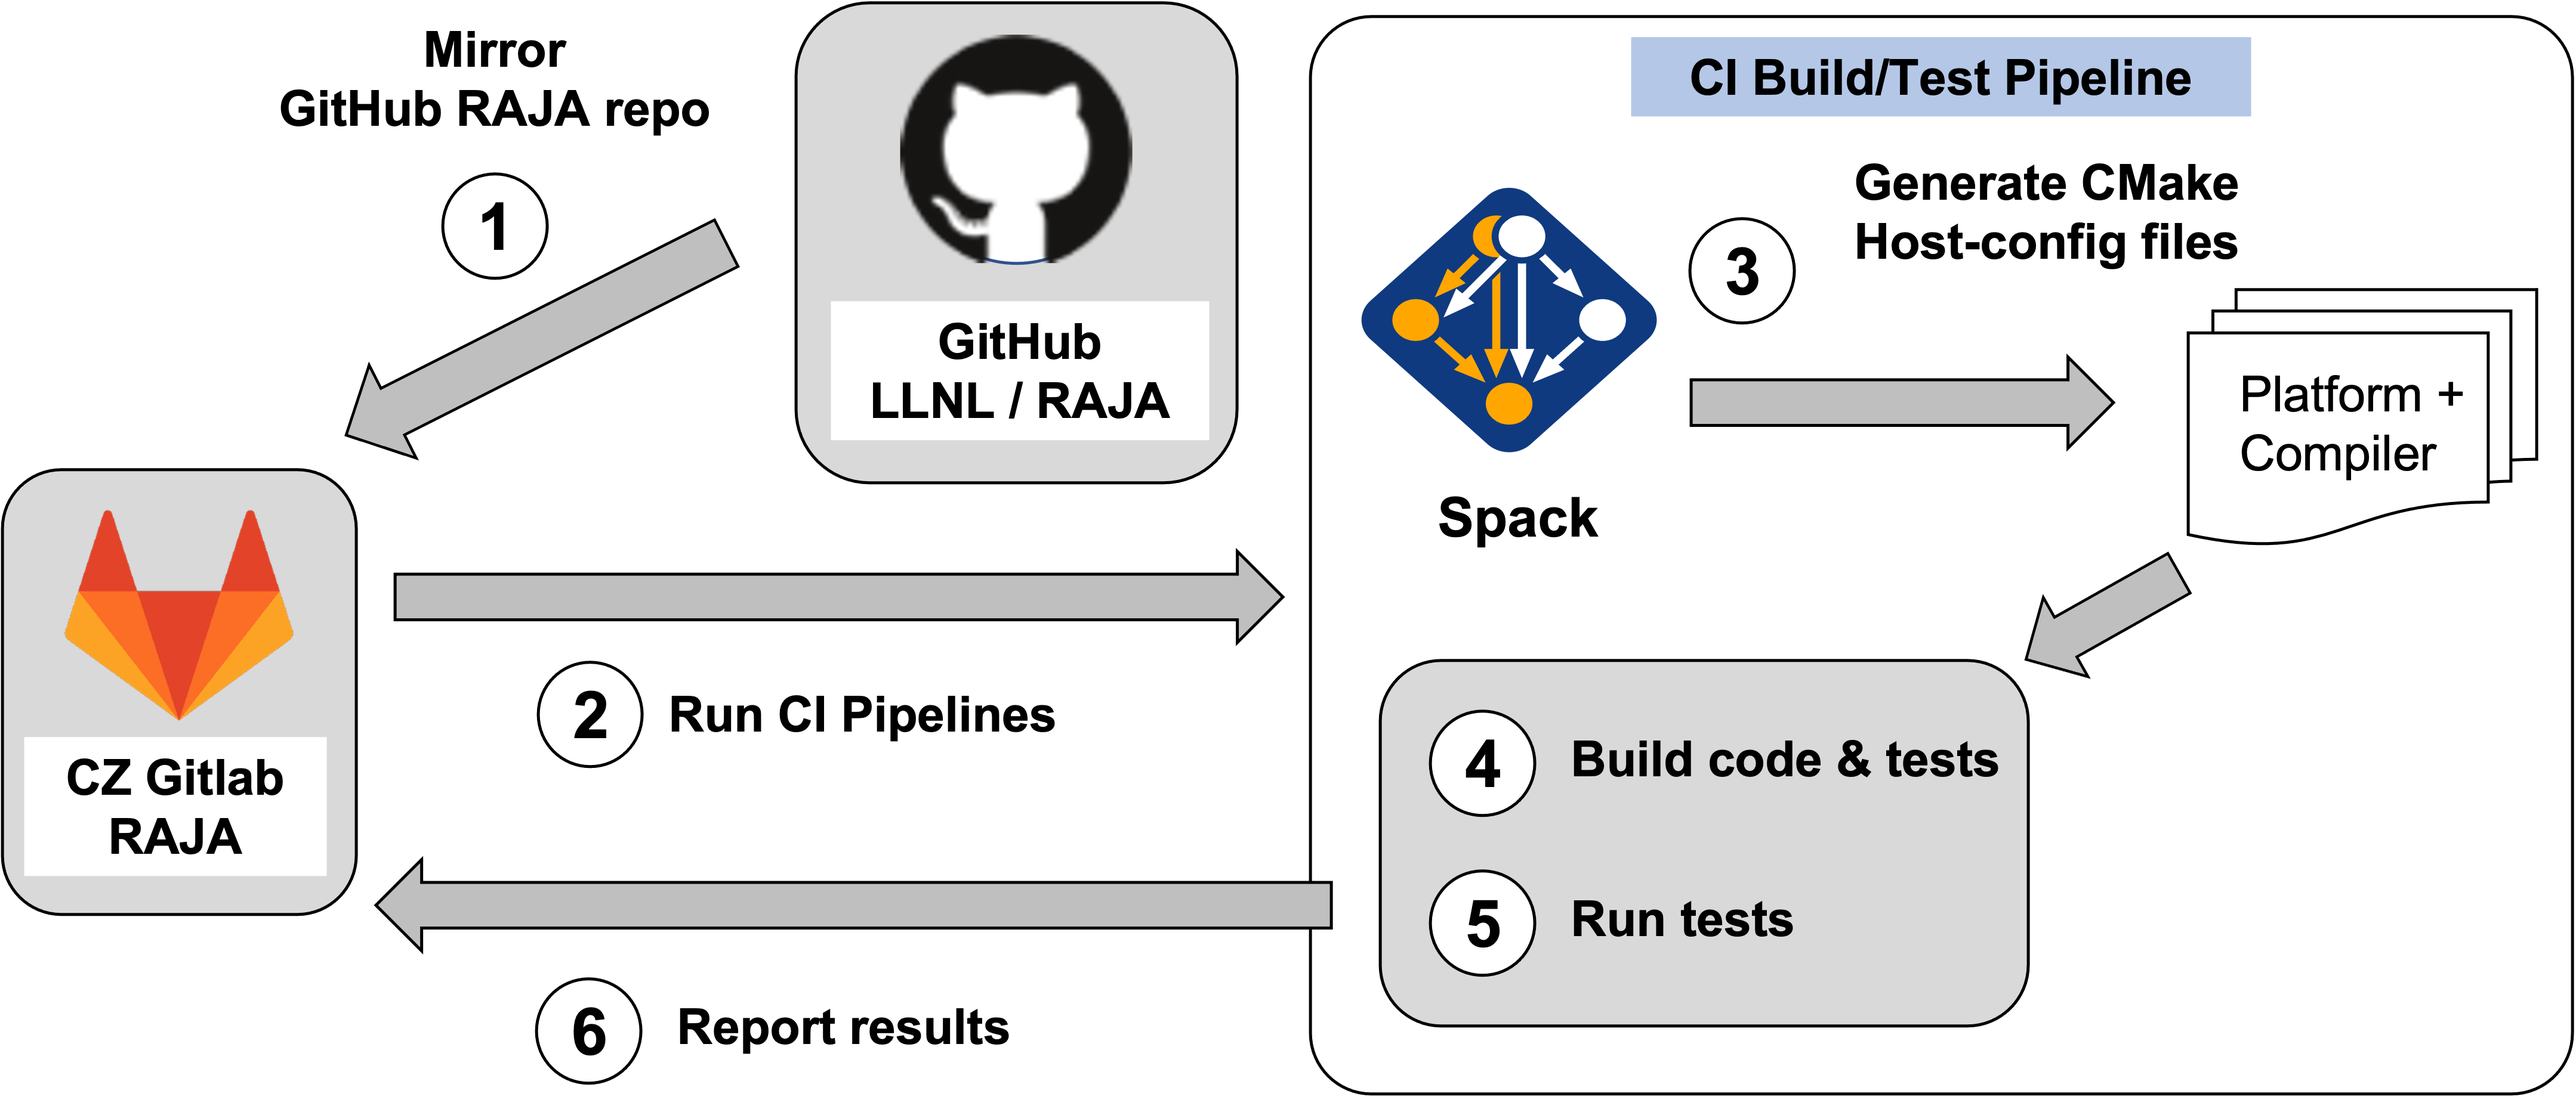
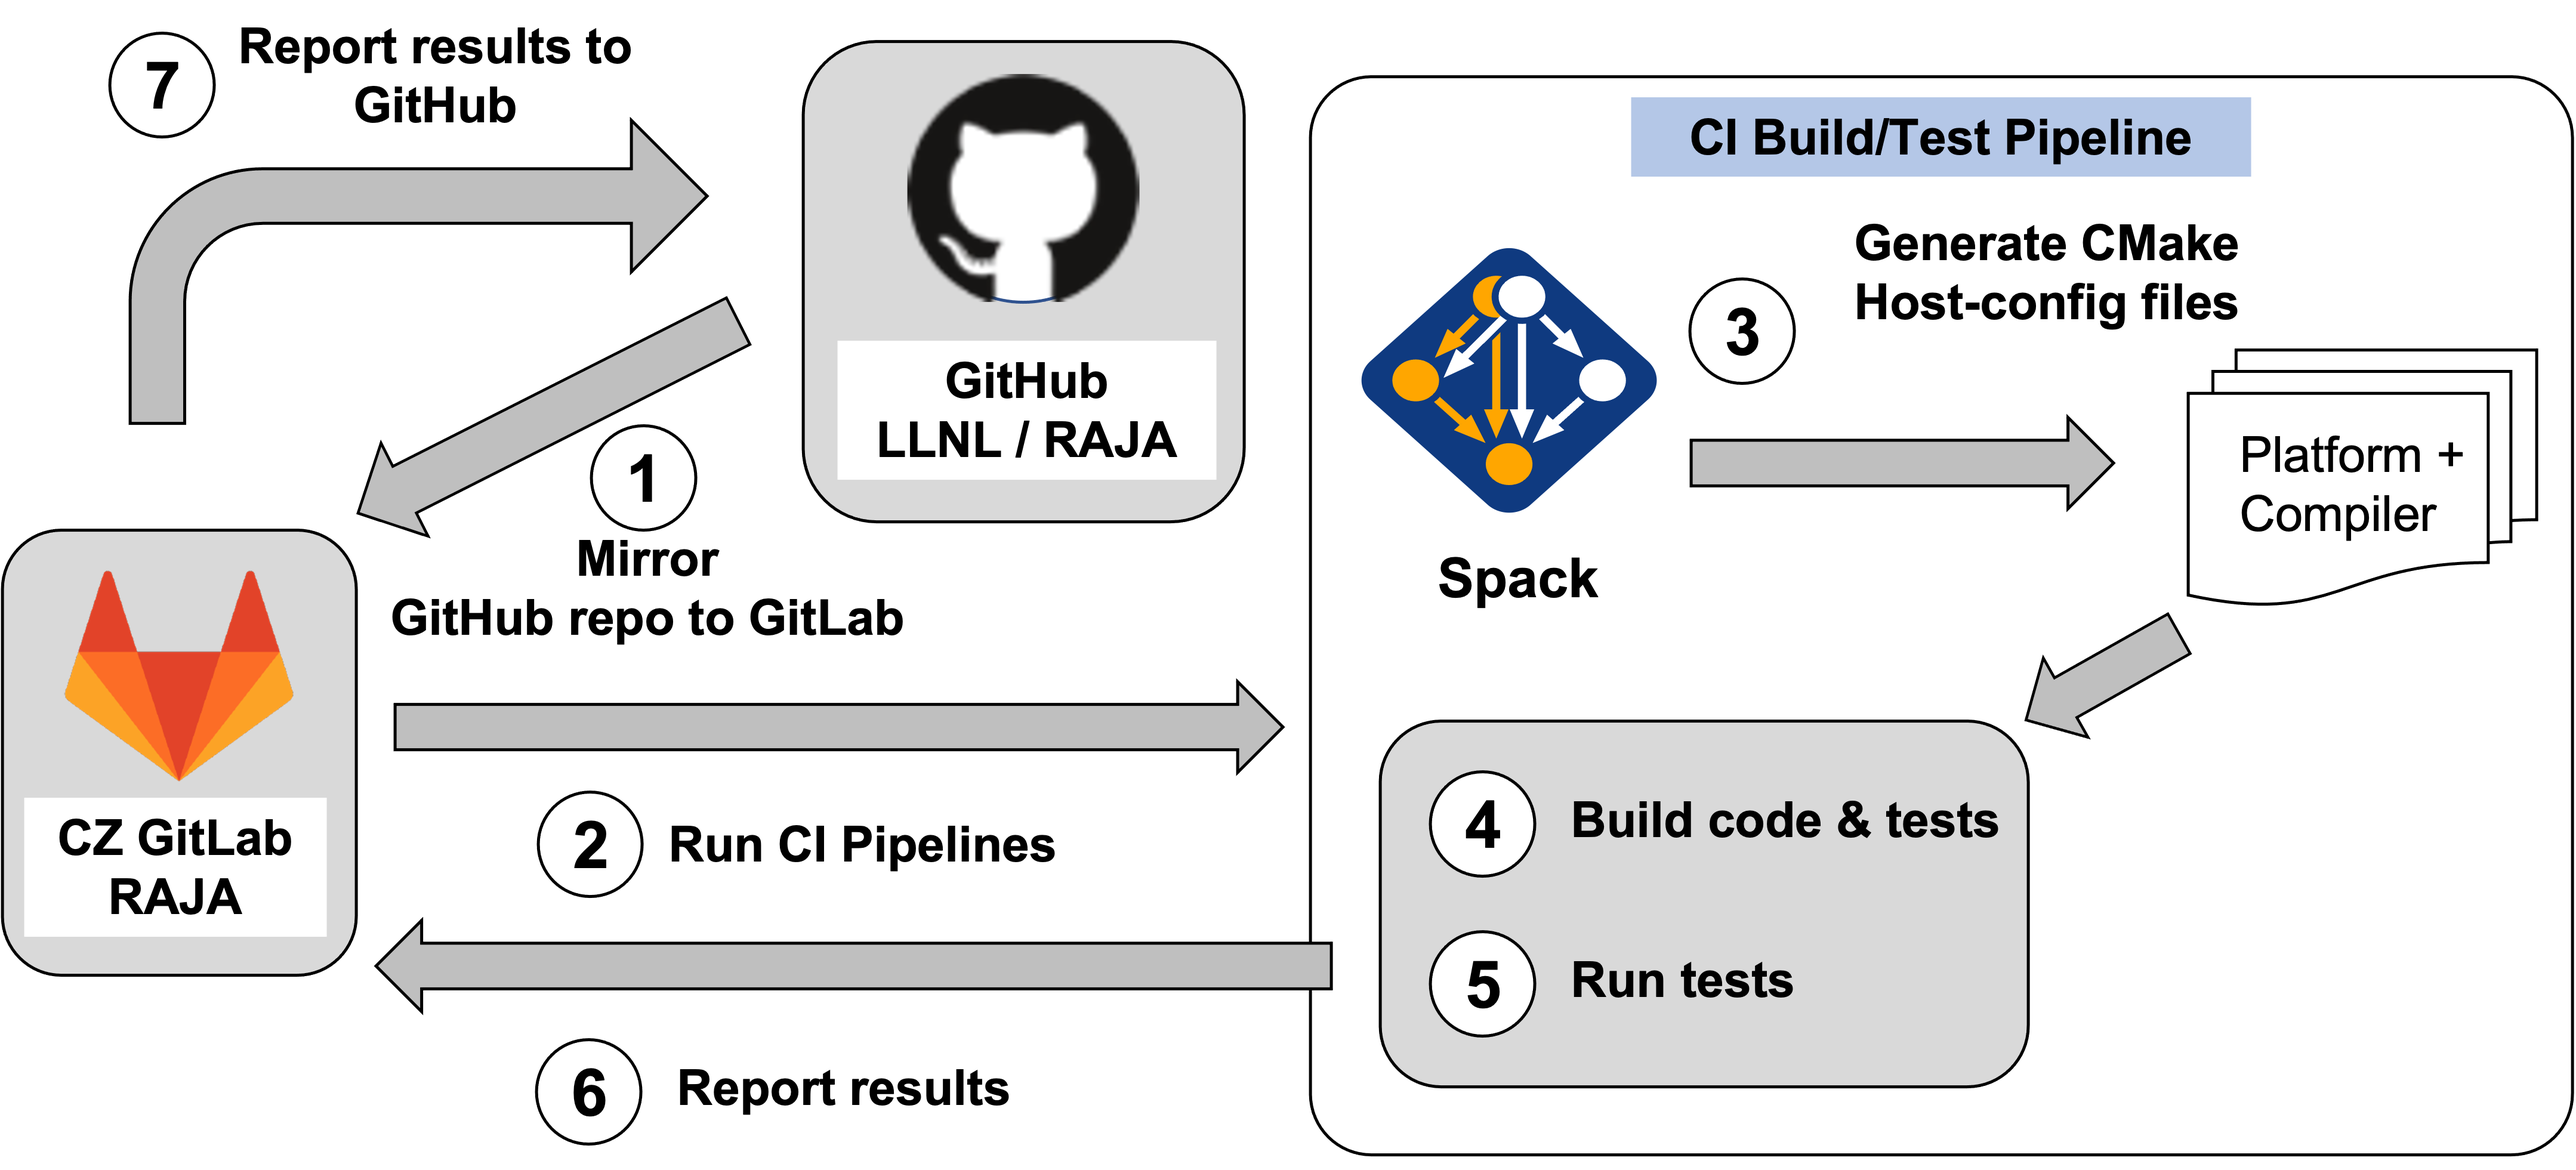
Fix typo and update GitLab CI figure

diff --git a/docs/sphinx/dev_guide/ci.rst b/docs/sphinx/dev_guide/ci.rst
@@ -94,7 +94,7 @@ process. The main steps, which we will discuss in more detail later, are:
      space.  Then, RAJA and its tests are compiled.
   #. Next, the RAJA tests are run.
   #. When test pipelines complete, results are reported in GitLab.
-  #. Lastly, Gitlab reports to GitHub to show the status of checks there.
+  #. Lastly, GitLab reports to GitHub to show the status of checks there.
 
 .. figure:: ./figures/RAJA-Gitlab-Workflow2.png
 
@@ -249,7 +249,7 @@ are also defined in the
 
 defines a RAJA job with desul atomics enabled to be run on the ruby machine.
 
-.. important:: Each base compiler configuration that is used in Gitlab CI 
+.. important:: Each base compiler configuration that is used in GitLab CI 
                testing must have a Spack spec defined for it in the appropriate
                file for the machine that it will be tested on in the 
                `RADIUSS Spack Configs https://github.com/LLNL/radiuss-spack-configs>`_ project.
